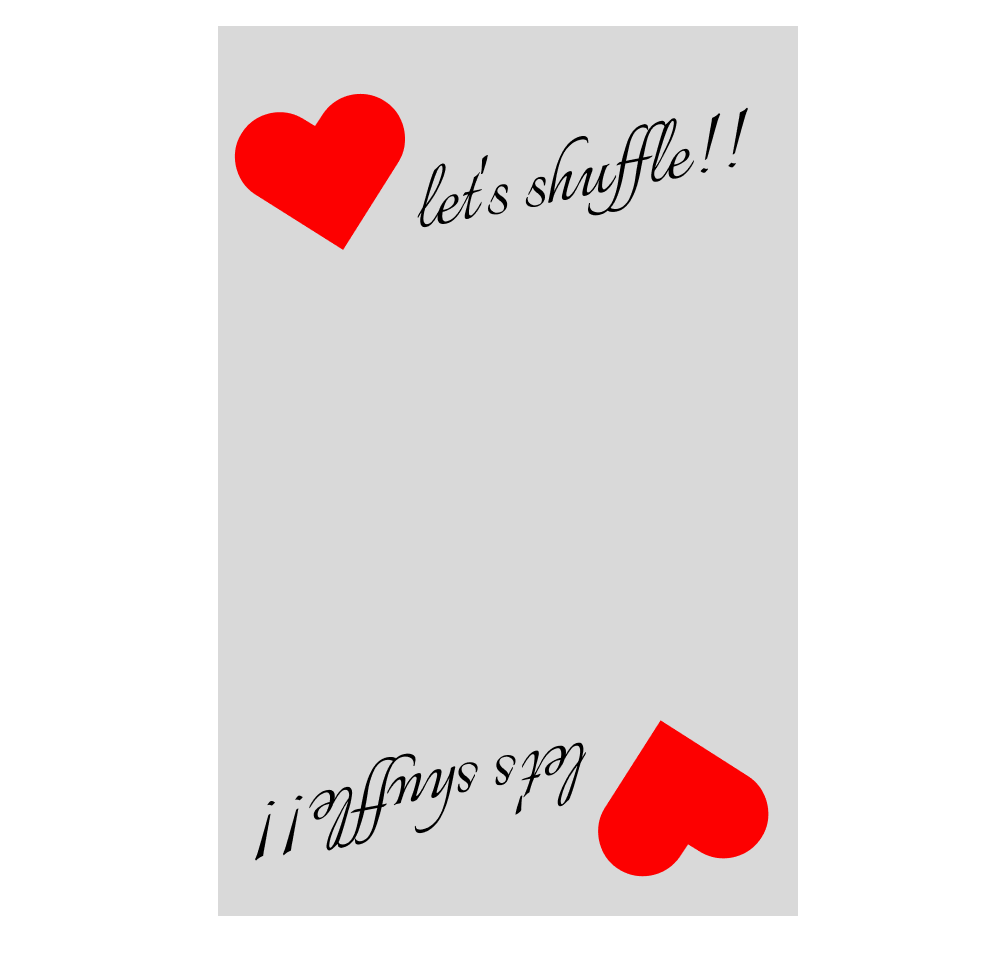
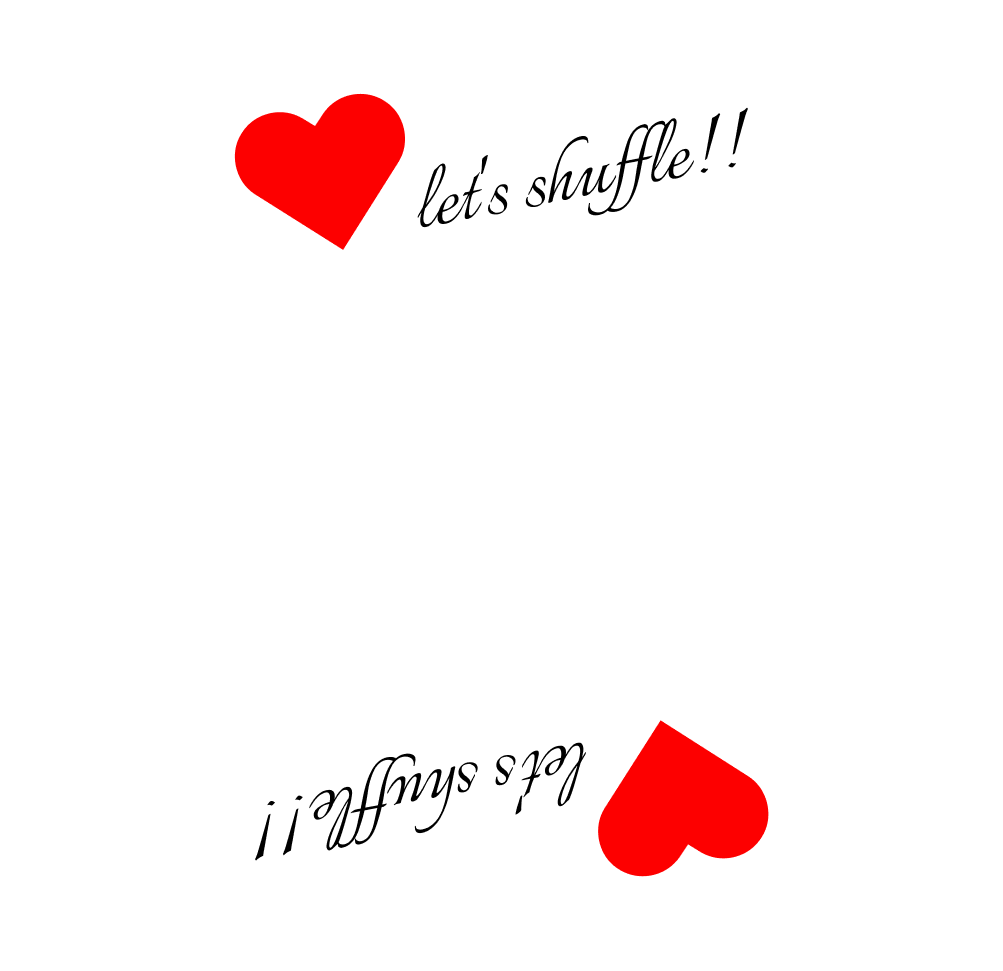
Add_Change:20250128_backcardimage_and_settingbutton

diff --git a/src/src/03_views/components/atoms/InputTime.css b/src/src/03_views/components/atoms/InputTime.css
@@ -14,24 +14,24 @@
 }
 /* 前の発表者ボタンのスタイル */
 .pre-announcer-button{
-    background-color: #000;
-    border: 1px solid #fff;
+    background-color: #08f;
+    border: none;
     color: #fff;
     font-weight: bold;
 }
 .pre-announcer-button:hover{
-    background-color: #444;
+    background-color: #6bf;
 }
 
 /* 次の発表者ボタンのスタイル */
 .next-announcer-button{
-    background-color: #000;
-    border: 1px solid #fff;
+    background-color: #f22;
+    border: none;
     color: #fff;
     font-weight: bold;
 }
 .next-announcer-button:hover{
-    background-color: #444;
+    background-color: #f77;
 }
 
 

diff --git a/src/src/03_views/components/atoms/BackCard.jsx b/src/src/03_views/components/atoms/BackCard.jsx
@@ -4,7 +4,10 @@ function BackCard({ name, index }) {
     const cardStyle = {
       width: "6rem",
       aspectRatio: "58 / 89",
-      backgroundColor: "#ffffff",
+
+      backgroundImage: "url(/img/backcard.png)",
+      backgroundSize: "180%",
+      backgroundPosition: 'center',
       boxShadow: "0 0 6px black",
       border: "0.5rem white solid",
       borderRadius: "0.5rem" ,
